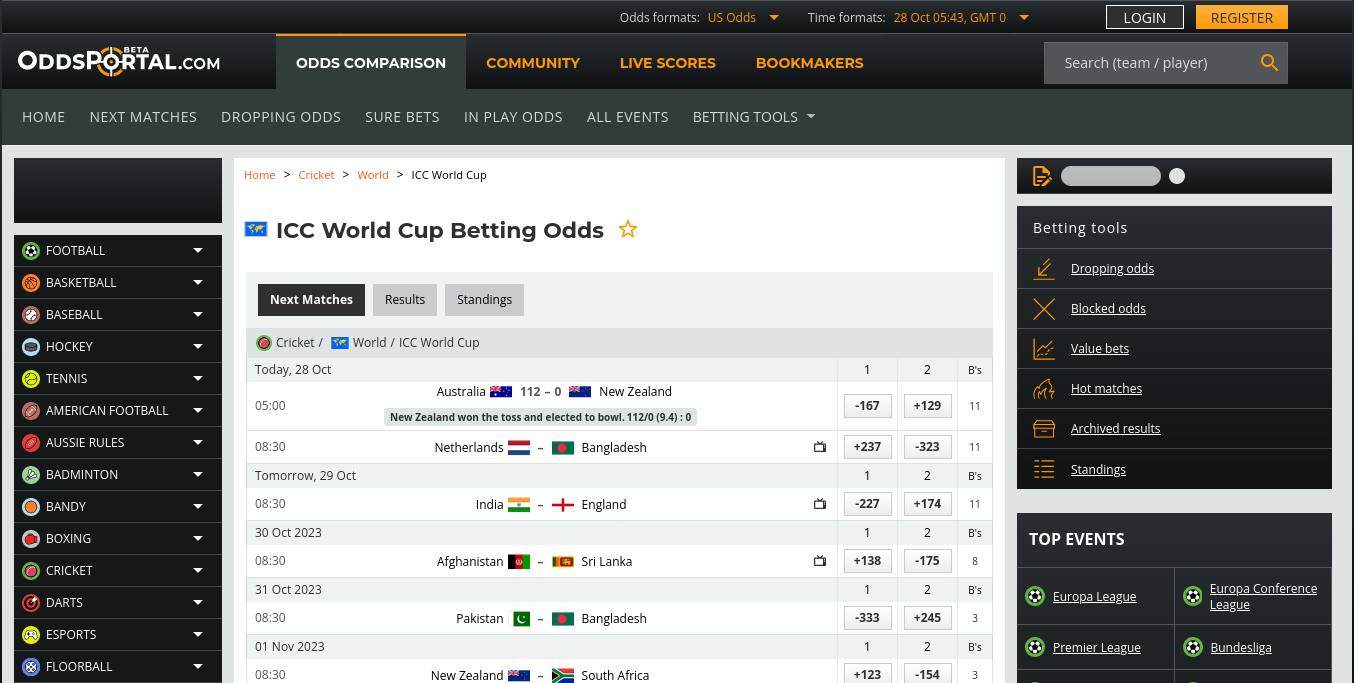
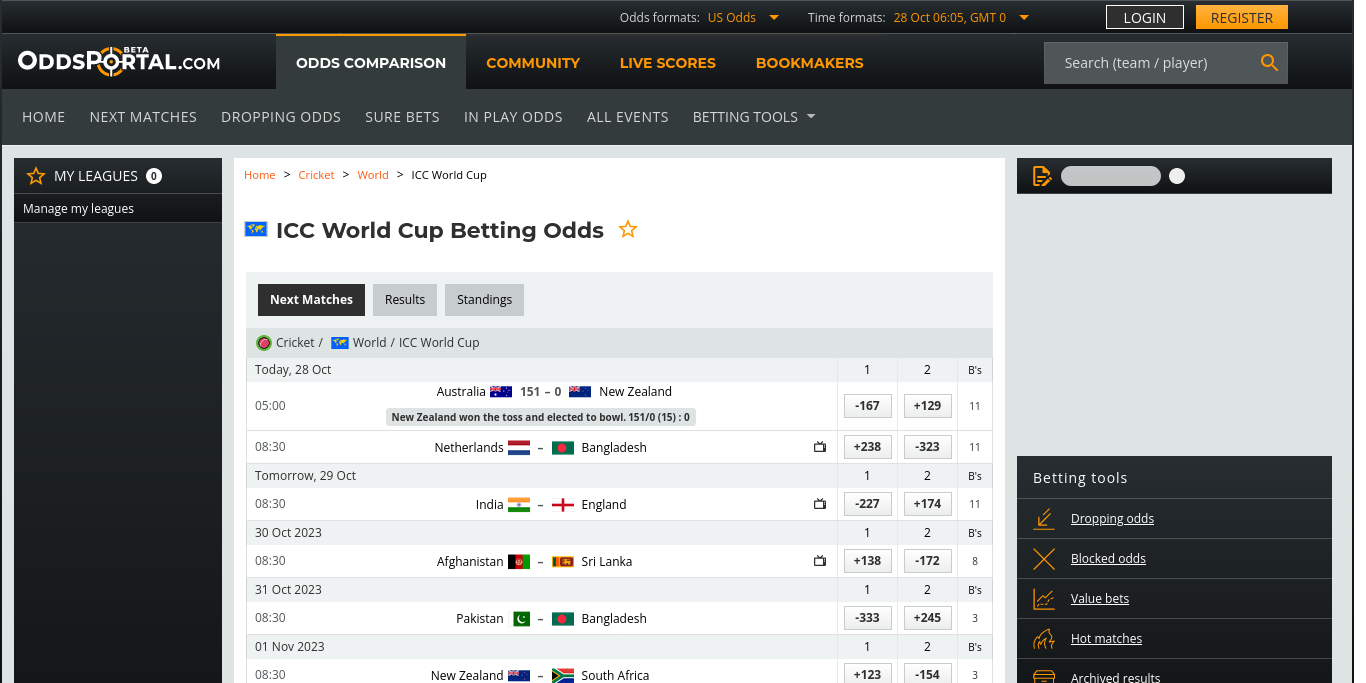
Update Data (Cron) Sat Oct 28 06:05:13 UTC 2023

diff --git a/src/nonview/data/TEAM1_ID_TO_TEAM2_ID_TO_ODDS_PAIR.js b/src/nonview/data/TEAM1_ID_TO_TEAM2_ID_TO_ODDS_PAIR.js
@@ -1,6 +1,6 @@
 // Auto Generated by UpdateTeam1IDToTeam2IDToOddsPair
 // https://www.oddsportal.com/cricket/world/icc-world-cup/
-// 2023-10-28 11:13:45 +0000
+// 2023-10-28 11:35:06 +0000
 
 import { TEAM } from "../core/Team.js";
 
@@ -9,14 +9,14 @@ export const TEAM1_ID_TO_TEAM2_ID_TO_ODDS_PAIR = {
     [TEAM.NZL.id]: [1.60, 2.29],
   },
   [TEAM.BGD.id]: {
-    [TEAM.NLD.id]: [1.31, 3.37],
+    [TEAM.NLD.id]: [1.31, 3.38],
   },
   [TEAM.IND.id]: {
     [TEAM.ENG.id]: [1.44, 2.74],
     [TEAM.LKA.id]: [1.19, 4.67],
   },
   [TEAM.LKA.id]: {
-    [TEAM.AFG.id]: [1.57, 2.38],
+    [TEAM.AFG.id]: [1.58, 2.38],
   },
   [TEAM.PAK.id]: {
     [TEAM.BGD.id]: [1.30, 3.45],

diff --git a/src/nonview/constants/VERSION.js b/src/nonview/constants/VERSION.js
@@ -1,4 +1,4 @@
 // Auto-generated by javascript_version.py
-export const VERSION_UT = 1698471832;
+export const VERSION_UT = 1698473113;
 export const VERSION_DATETIME = new Date(VERSION_UT * 1_000);
 export const LAST_COMMIT_MESSAGE = "Updated 📊Data";

diff --git a/src/nonview/data/ODI_ID_TO_WINNER.js b/src/nonview/data/ODI_ID_TO_WINNER.js
@@ -1,6 +1,6 @@
 // Auto Generated by UpdateODIIDToWinner
 // https://www.cricbuzz.com/cricket-series/6732/icc-cricket-world-cup-2023/matches
-// 2023-10-28 11:13:27 +0000
+// 2023-10-28 11:34:49 +0000
 
 import { TEAM } from "../core/Team.js";
 

diff --git a/src/nonview/data/POINTS_TABLE.js b/src/nonview/data/POINTS_TABLE.js
@@ -1,6 +1,6 @@
 // Auto Generated by UpdatePointsTable
 // https://www.cricketworldcup.com/standings
-// 2023-10-28 11:13:36 +0000
+// 2023-10-28 11:34:58 +0000
 
 import { TEAM } from "../core/Team.js";
 
